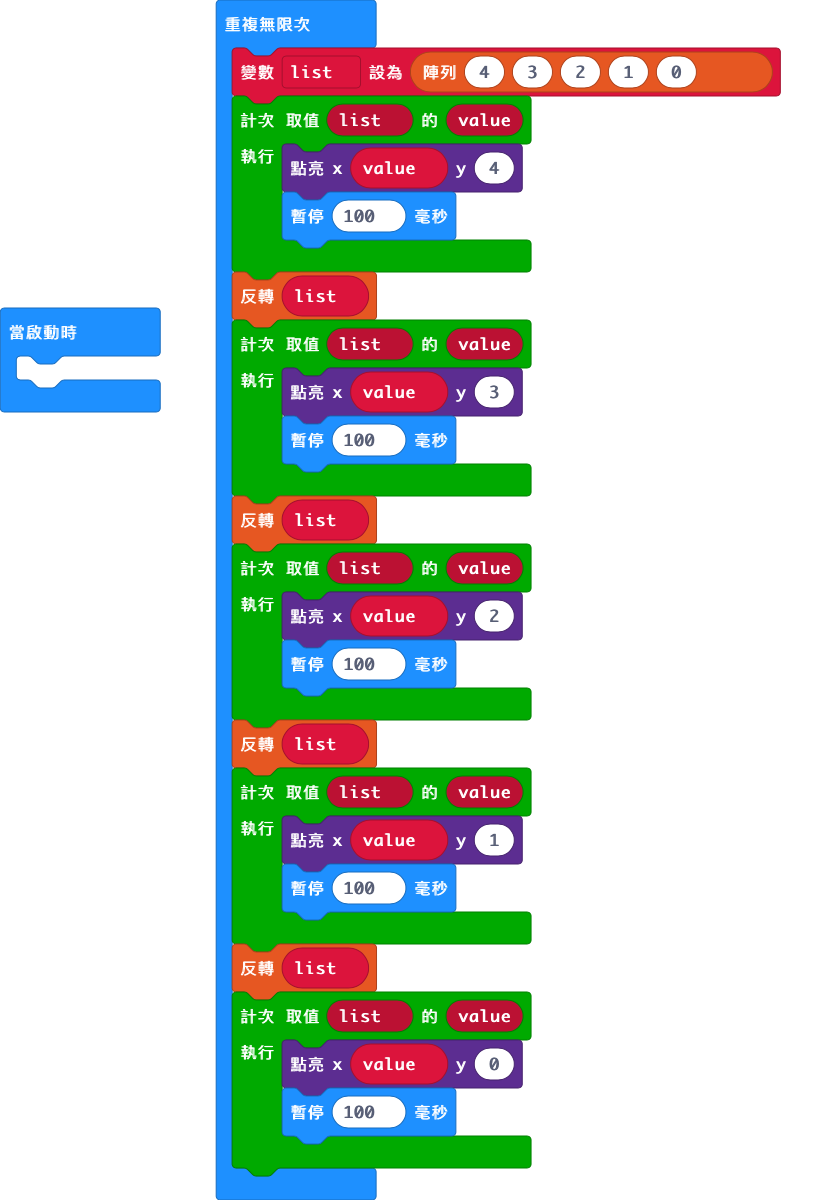
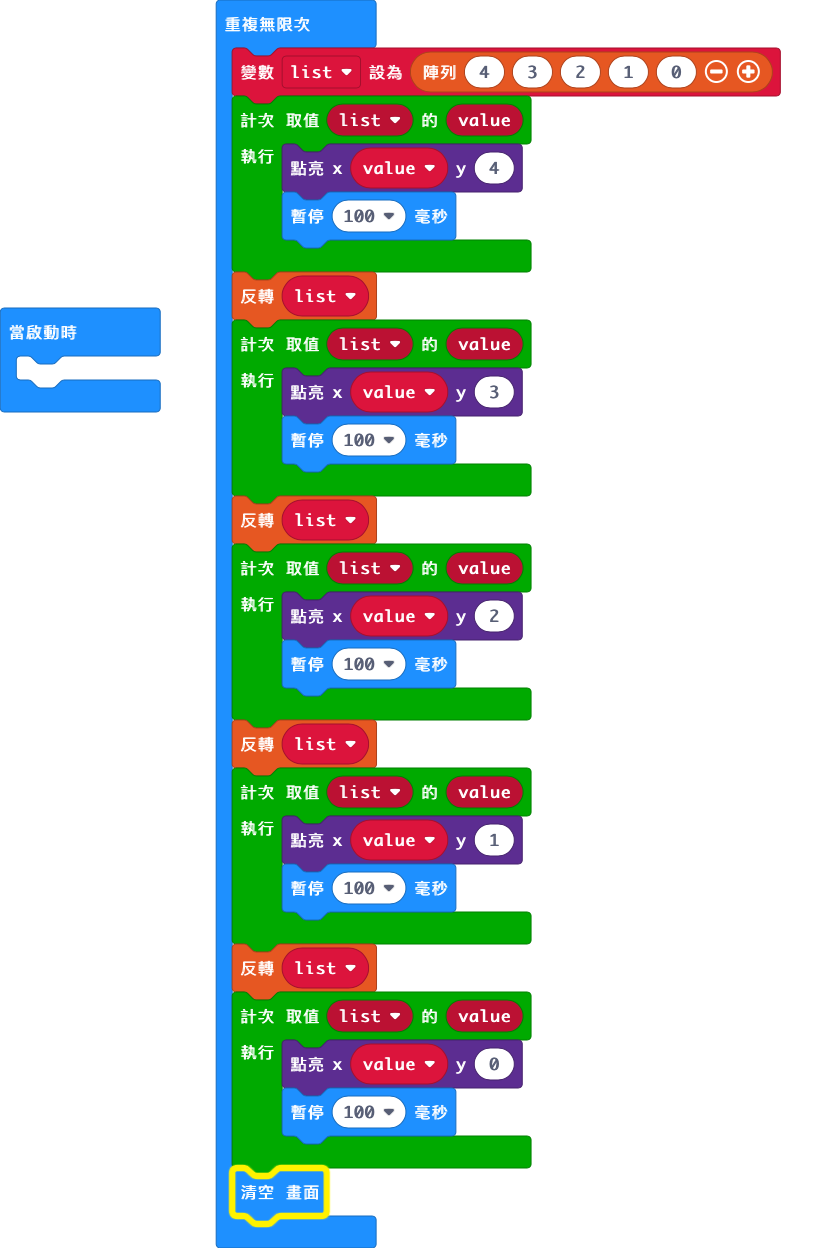
Update main.blocks, main.ts

Changed region(s): [[0.25, 0.0, 0.9375, 0.9867], [0.0, 0.2467, 0.2188, 0.37]]

diff --git a/main.ts b/main.ts
@@ -25,4 +25,5 @@ basic.forever(function () {
         led.plot(value, 0)
         basic.pause(100)
     }
+    basic.clearScreen()
 })
